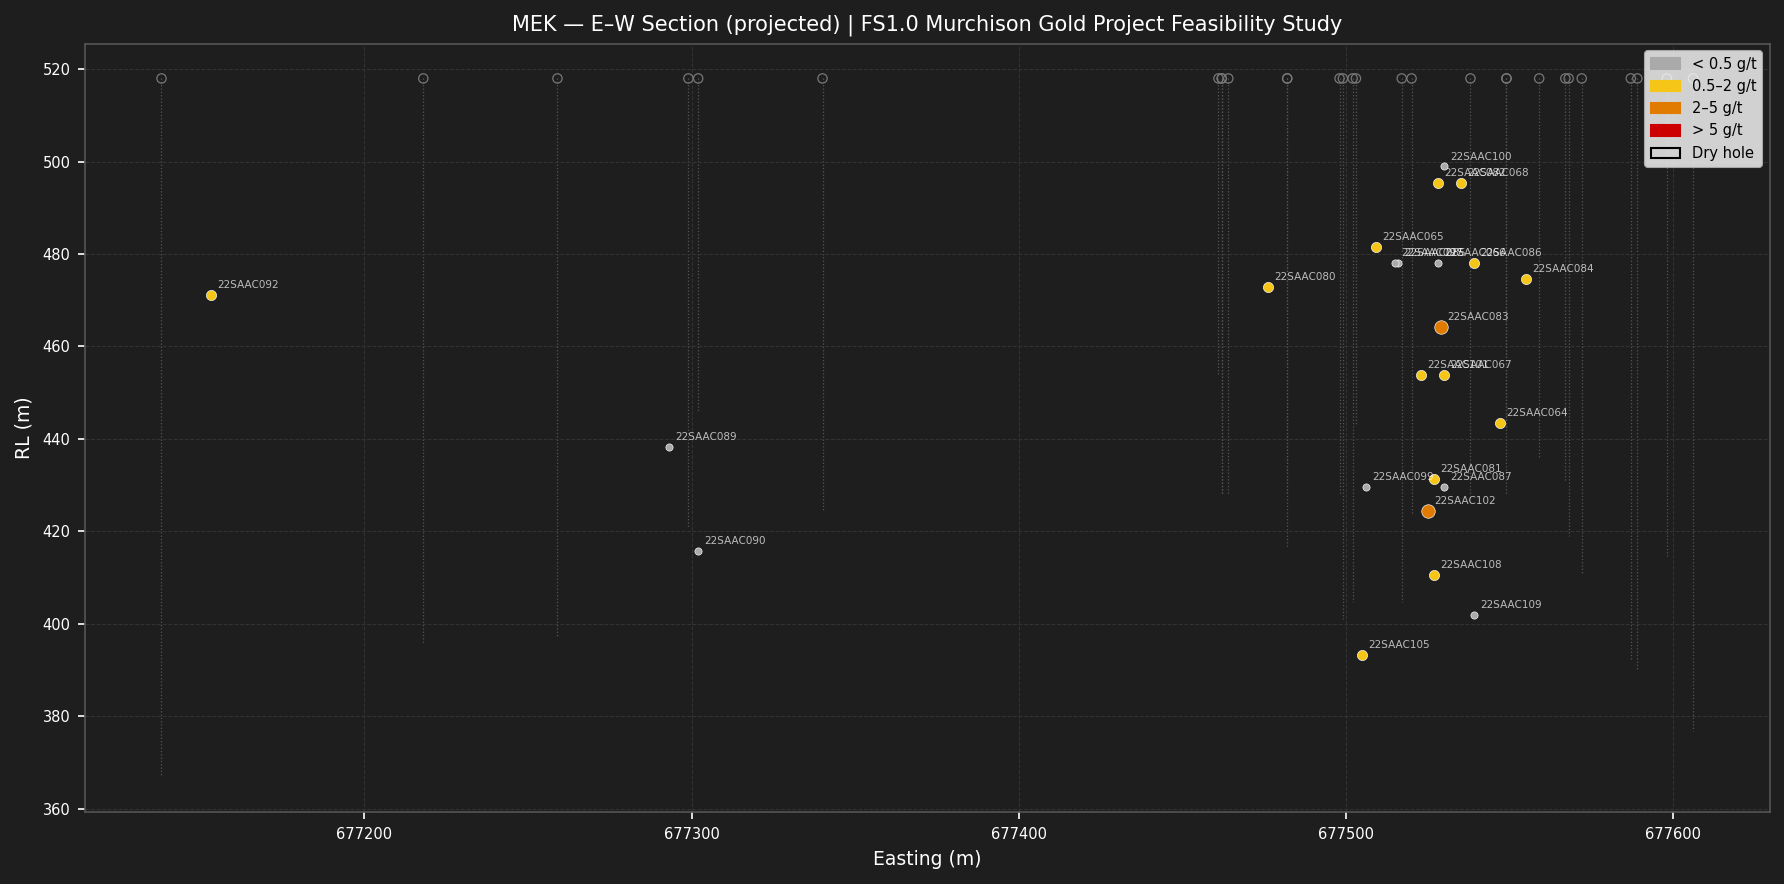
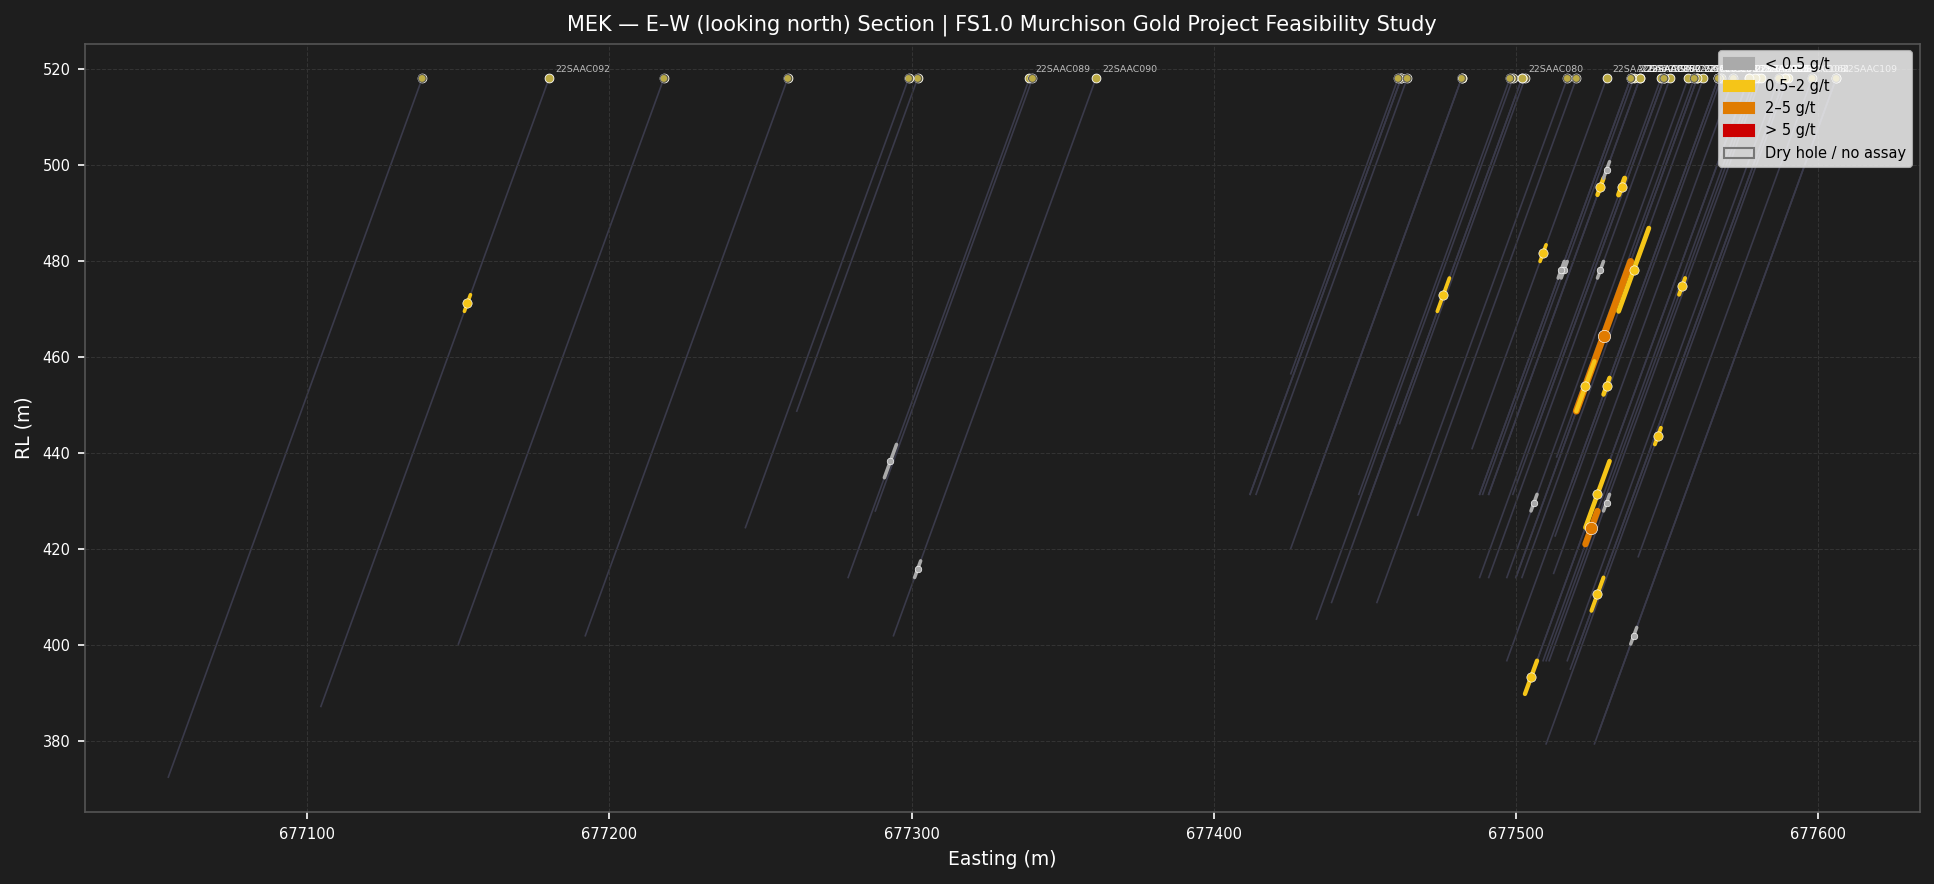
Synthetic DFS update 2026-03-31 13:07 UTC

diff --git a/tab_synthetic_dfs.js b/tab_synthetic_dfs.js
@@ -69,6 +69,7 @@ function buildTargetPane(ticker, tkey, t, visible) {
   const s = t.stats || {};
   const bb = s.bounding_box || {};
   const gs = s.grade_stats || {};
+  const v  = Date.now();
 
   // Grade colour helper
   const gradeColour = g => g >= 5 ? '#cc0000' : g >= 2 ? '#e07b00' : g >= 0.5 ? '#f5c518' : '#888';
@@ -91,19 +92,35 @@ function buildTargetPane(ticker, tkey, t, visible) {
     if (!src) return `<div style="color:var(--muted);font-size:11px;padding:20px;text-align:center;border:1px dashed #333;border-radius:6px">${label} — not yet generated</div>`;
     return `<div>
       <div style="color:var(--muted);font-size:11px;margin-bottom:6px">${label}</div>
-      <img src="${src}?v=${Date.now()}" alt="${label}" style="${imgStyle}" onclick="sdfsExpandImg(this)">
+      <img src="${src}?v=${v}" alt="${label}" style="${imgStyle}" onclick="sdfsExpandImg(this)">
     </div>`;
   };
+
+  const has3d = !!t.drill_holes_url;
 
   return `
     <div id="sdfs-pane-${ticker}-${tkey}" style="display:${display}">
       <div style="color:var(--muted);font-size:12px;margin-bottom:14px">${t.label || tkey} | cutoff ${t.cutoff_date || '—'}</div>
 
+      <!-- 2D section plots -->
       <div style="display:grid;grid-template-columns:1fr 1fr 1fr;gap:16px;margin-bottom:20px">
         ${imgHtml('plan_view', 'Plan View (X–Y)')}
-        ${imgHtml('section_ns', 'N–S Section')}
-        ${imgHtml('section_ew', 'E–W Section')}
+        ${imgHtml('section_ns', 'N–S Section (looking east)')}
+        ${imgHtml('section_ew', 'E–W Section (looking north) — true dip visible')}
       </div>
+
+      <!-- 3D viewer -->
+      ${has3d ? `
+      <div style="margin-bottom:20px">
+        <div style="font-size:12px;font-weight:600;color:var(--accent);margin-bottom:8px">3D Drill Intercept Viewer</div>
+        <div id="sdfs-3d-wrap-${ticker}-${tkey}"
+             style="width:100%;height:480px;border-radius:6px;border:1px solid #333;background:#0a0a12;position:relative">
+          <div style="height:100%;display:flex;align-items:center;justify-content:center;color:var(--muted);font-size:12px">
+            Click <strong style="color:var(--accent);margin:0 4px;cursor:pointer"
+              onclick="sdfsLoad3D('${ticker}','${tkey}','${t.drill_holes_url}')">Load 3D View</strong> to render
+          </div>
+        </div>
+      </div>` : ''}
 
       <div style="display:grid;grid-template-columns:auto 1fr;gap:20px">
         <!-- Stats -->
@@ -156,6 +173,39 @@ function sdfsSelectTarget(ticker, tkey) {
   const btn  = document.getElementById(`sdfs-btn-${ticker}-${tkey}`);
   if (pane) pane.style.display = 'block';
   if (btn)  btn.classList.add('sdfs-tab-active');
+}
+
+async function sdfsLoad3D(ticker, tkey, url) {
+  const wrap = document.getElementById(`sdfs-3d-wrap-${ticker}-${tkey}`);
+  if (!wrap) return;
+  wrap.innerHTML = `<div style="height:100%;display:flex;align-items:center;justify-content:center;color:var(--muted);font-size:12px">Loading drill data…</div>`;
+
+  let holes;
+  try {
+    const r = await fetch(url + '?v=' + Date.now());
+    if (!r.ok) throw new Error(`HTTP ${r.status}`);
+    holes = await r.json();
+  } catch (e) {
+    wrap.innerHTML = `<div style="height:100%;display:flex;align-items:center;justify-content:center;color:#ff6666;font-size:12px">Failed to load: ${e.message}</div>`;
+    return;
+  }
+
+  // tab_mines_3d.js exposes minesRender3D(holes, containerEl).
+  // If it doesn't accept a container argument, temporarily move wrap into position.
+  if (typeof minesRender3D === 'function') {
+    // minesRender3D uses document.getElementById('mines-3d-wrap') by default.
+    // We override by temporarily giving wrap that id, then restoring.
+    const origId = wrap.id;
+    wrap.id = 'mines-3d-wrap';
+    try {
+      minesRender3D(holes);
+    } finally {
+      // Restore id after a tick so the renderer has time to grab the element
+      setTimeout(() => { wrap.id = origId; }, 50);
+    }
+  } else {
+    wrap.innerHTML = `<div style="height:100%;display:flex;align-items:center;justify-content:center;color:#ff6666;font-size:12px">3D engine not loaded (tab_mines_3d.js required)</div>`;
+  }
 }
 
 function sdfsExpandImg(img) {
